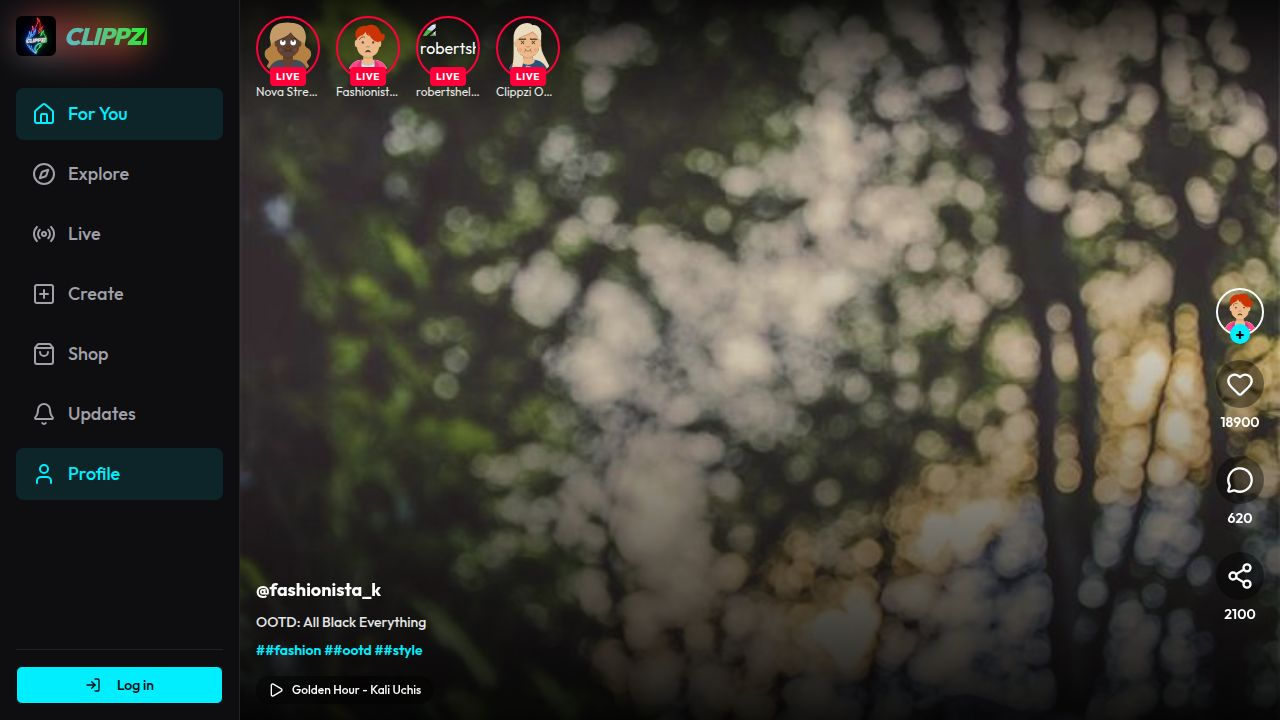
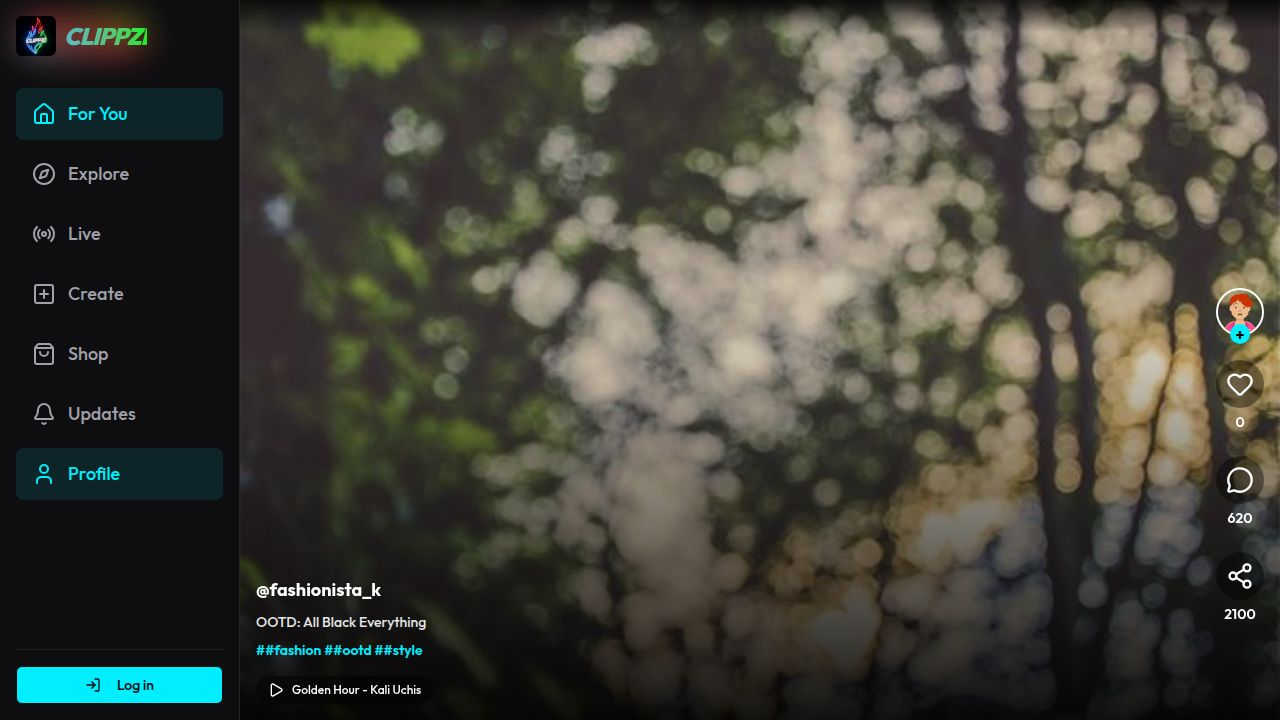
Fix: support uploading videos of any length (real upload progress)
Task: Owner reported the app "won't let us load videos longer than one
minute" and wants any-length videos.

Root cause: There is no duration or file-size limit anywhere in the app
(client, posts route, storage route all uncapped; presigned URL TTL is
15 min, uploads go directly to GCS). The real problem was fake progress
in the upload hook: it set progress to 10% then 30%, then jumped to 100%
only after a single fetch() PUT fully completed. For longer (larger)
videos the bar sat frozen at 30% with no feedback, so users assumed long
videos "don't work" and gave up.

Fix:
- lib/object-storage-web/src/use-upload.ts: replaced the fetch() PUT with
  XMLHttpRequest reporting real xhr.upload.onprogress percent. No client
  timeout so large files can finish. Surfaces network/abort/HTTP-status
  errors with clear messages.
- artifacts/clippzi/src/pages/upload.tsx: updated dropzone hint to note
  files of "any length" are supported.

Verification: tsc --noEmit passes for @user/object-storage-web and
@user/clippzi; architect code review passed (no critical issues).

Changed region(s): [[0.1875, 0.0, 1.0, 0.1528], [0.9375, 0.5806, 1.0, 0.6111]]

diff --git a/lib/object-storage-web/src/use-upload.ts b/lib/object-storage-web/src/use-upload.ts
@@ -84,18 +84,35 @@ export function useUpload(options: UseUploadOptions = {}) {
   );
 
   const uploadToPresignedUrl = useCallback(
-    async (file: File, uploadURL: string): Promise<void> => {
-      const response = await fetch(uploadURL, {
-        method: "PUT",
-        body: file,
-        headers: {
-          "Content-Type": file.type || "application/octet-stream",
-        },
-      });
+    (file: File, uploadURL: string, onProgress?: (percent: number) => void): Promise<void> => {
+      // Use XMLHttpRequest (not fetch) so we get real upload progress events.
+      // This matters for large files such as multi-minute videos: with fetch the
+      // progress bar would sit frozen for the whole upload and users assumed long
+      // videos "don't work" and gave up. There is intentionally NO client timeout
+      // so big files have as long as they need to finish.
+      return new Promise<void>((resolve, reject) => {
+        const xhr = new XMLHttpRequest();
+        xhr.open("PUT", uploadURL, true);
+        xhr.setRequestHeader("Content-Type", file.type || "application/octet-stream");
 
-      if (!response.ok) {
-        throw new Error("Failed to upload file to storage");
-      }
+        xhr.upload.onprogress = (event) => {
+          if (event.lengthComputable && onProgress) {
+            onProgress(Math.round((event.loaded / event.total) * 100));
+          }
+        };
+
+        xhr.onload = () => {
+          if (xhr.status >= 200 && xhr.status < 300) {
+            resolve();
+          } else {
+            reject(new Error(`Failed to upload file to storage (status ${xhr.status})`));
+          }
+        };
+        xhr.onerror = () => reject(new Error("Network error while uploading. Check your connection and try again."));
+        xhr.onabort = () => reject(new Error("Upload was cancelled."));
+
+        xhr.send(file);
+      });
     },
     []
   );
@@ -107,11 +124,11 @@ export function useUpload(options: UseUploadOptions = {}) {
       setProgress(0);
 
       try {
-        setProgress(10);
         const uploadResponse = await requestUploadUrl(file);
 
-        setProgress(30);
-        await uploadToPresignedUrl(file, uploadResponse.uploadURL);
+        await uploadToPresignedUrl(file, uploadResponse.uploadURL, (percent) => {
+          setProgress(percent);
+        });
 
         setProgress(100);
         options.onSuccess?.(uploadResponse);

diff --git a/artifacts/clippzi/src/pages/upload.tsx b/artifacts/clippzi/src/pages/upload.tsx
@@ -163,7 +163,7 @@ export default function Upload() {
               </div>
               <div className="text-center">
                 <p className="text-white font-medium">Click to select or drag and drop</p>
-                <p className="text-sm text-muted-foreground mt-1">MP4, WebM, MOV, JPG, PNG, GIF</p>
+                <p className="text-sm text-muted-foreground mt-1">MP4, WebM, MOV, JPG, PNG, GIF — any length</p>
               </div>
             </div>
           ) : (